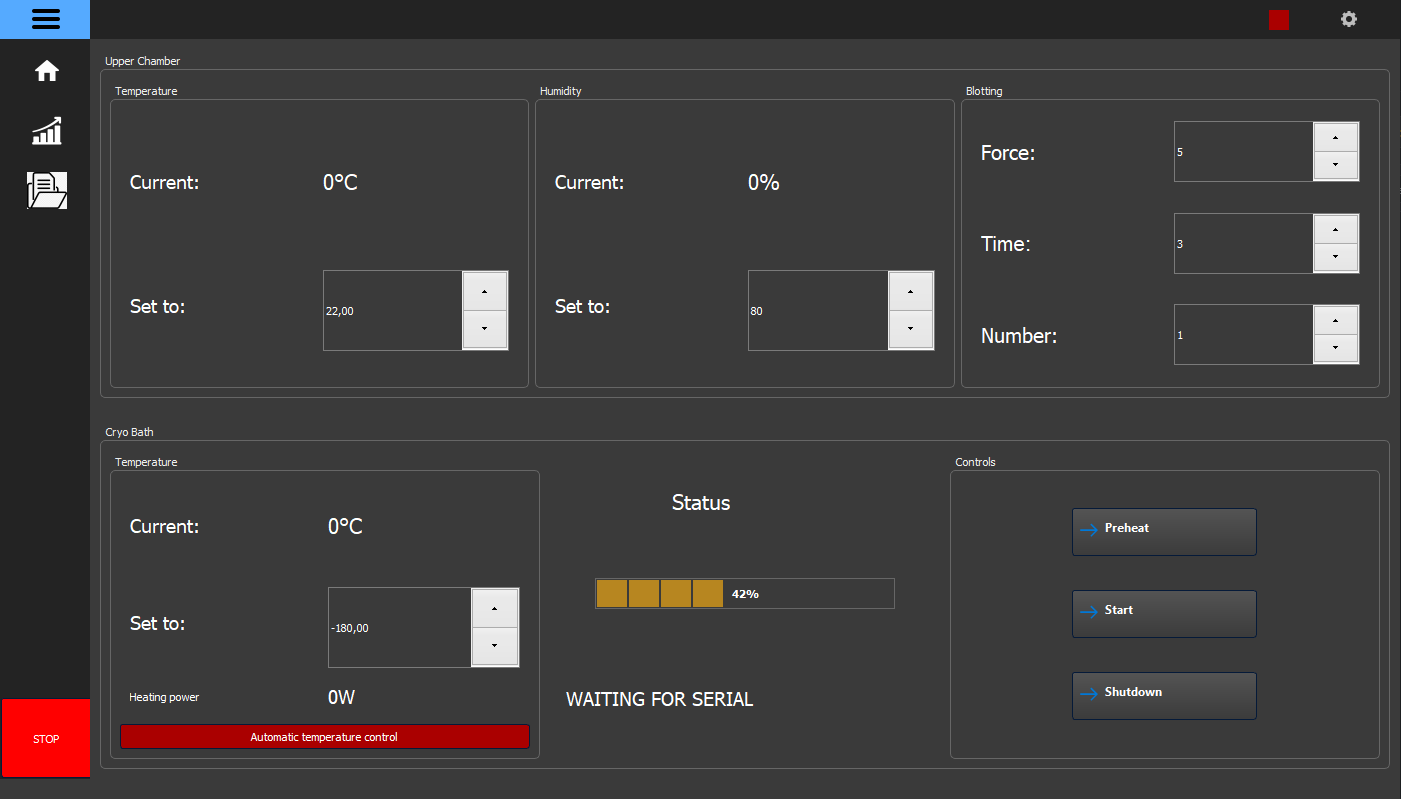
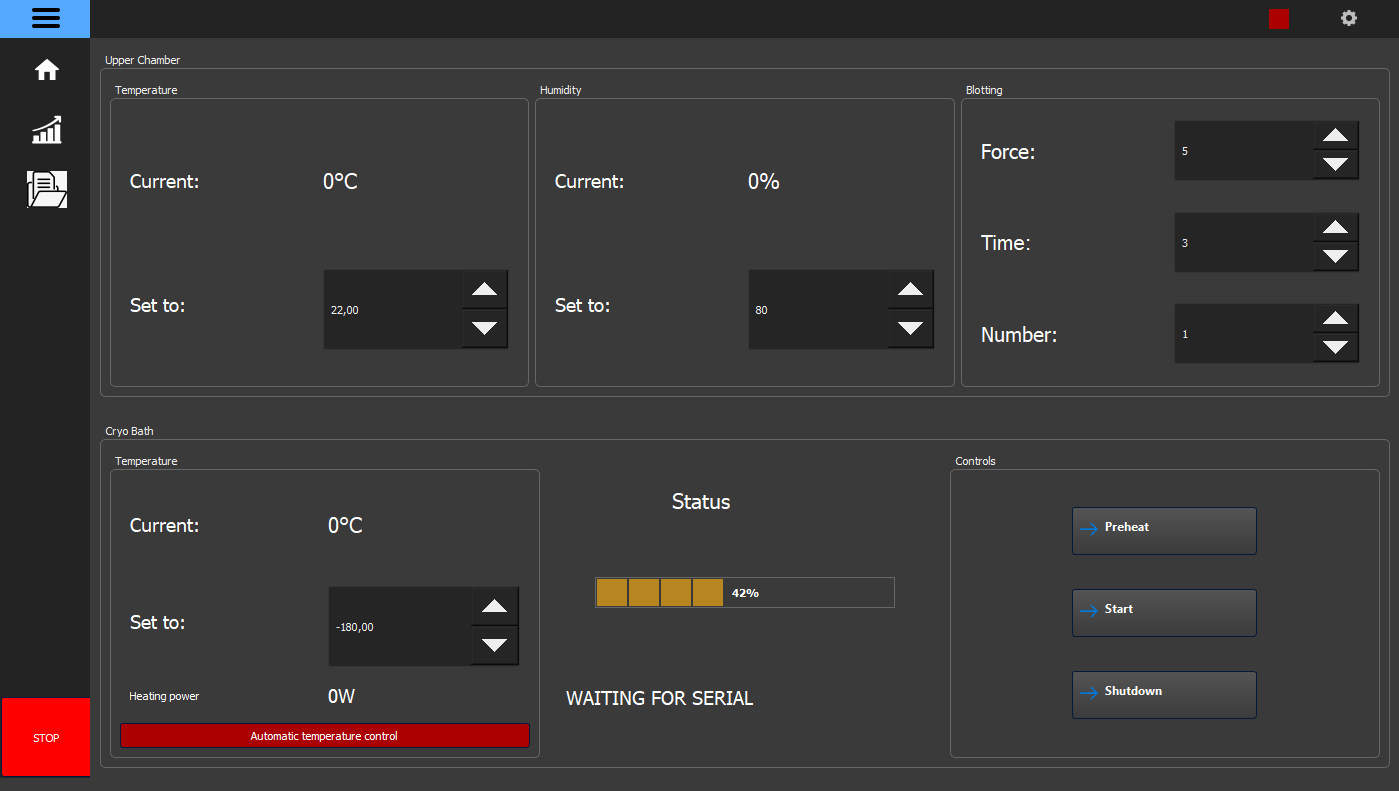
Some style changes.

diff --git a/ui_PEM_new_gui.py b/ui_PEM_new_gui.py
@@ -1,7 +1,7 @@
 # -*- coding: utf-8 -*-
 
 ################################################################################
-## Form generated from reading UI file 'PEM_new_guiwgXcmF.ui'
+## Form generated from reading UI file 'PEM_new_guiLATmzf.ui'
 ##
 ## Created by: Qt User Interface Compiler version 5.15.2
 ##
@@ -16,8 +16,8 @@ from PySide2.QtWidgets import *
 class Ui_MainWindow(object):
     def setupUi(self, MainWindow):
         if not MainWindow.objectName():
-            MainWindow.setObjectName(u"PEMpire-State-Building")
-        MainWindow.resize(1400, 865)
+            MainWindow.setObjectName(u"MainWindow")
+        MainWindow.resize(1400, 836)
         MainWindow.setMinimumSize(QSize(1400, 800))
         font = QFont()
         font.setPointSize(11)
@@ -1321,7 +1321,12 @@ class Ui_MainWindow(object):
         self.temp_control_2 = QDoubleSpinBox(self.frame_22)
         self.temp_control_2.setObjectName(u"temp_control_2")
         self.temp_control_2.setMinimumSize(QSize(141, 81))
-        self.temp_control_2.setStyleSheet(u"")
+        self.temp_control_2.setStyleSheet(u"background-color: #252525;\n"
+"color : #eee;\n"
+"border: 1px solid #343434;\n"
+"padding: 3px;\n"
+"padding-left: 5px;\n"
+"border-radius : 2px;")
         self.temp_control_2.setValue(22.000000000000000)
 
         self.horizontalLayout_26.addWidget(self.temp_control_2)
@@ -1378,6 +1383,12 @@ class Ui_MainWindow(object):
         self.humid_control_2 = QDoubleSpinBox(self.frame_23)
         self.humid_control_2.setObjectName(u"humid_control_2")
         self.humid_control_2.setMinimumSize(QSize(141, 81))
+        self.humid_control_2.setStyleSheet(u"background-color: #252525;\n"
+"color : #eee;\n"
+"border: 1px solid #343434;\n"
+"padding: 3px;\n"
+"padding-left: 5px;\n"
+"border-radius : 2px;")
         self.humid_control_2.setDecimals(0)
         self.humid_control_2.setValue(80.000000000000000)
 
@@ -1413,6 +1424,12 @@ class Ui_MainWindow(object):
         self.blotting_force_control_2 = QDoubleSpinBox(self.frame_6)
         self.blotting_force_control_2.setObjectName(u"blotting_force_control_2")
         self.blotting_force_control_2.setMinimumSize(QSize(121, 61))
+        self.blotting_force_control_2.setStyleSheet(u"background-color: #252525;\n"
+"color : #eee;\n"
+"border: 1px solid #343434;\n"
+"padding: 3px;\n"
+"padding-left: 5px;\n"
+"border-radius : 2px;")
         self.blotting_force_control_2.setDecimals(0)
         self.blotting_force_control_2.setMaximum(10.000000000000000)
         self.blotting_force_control_2.setValue(5.000000000000000)
@@ -1441,6 +1458,12 @@ class Ui_MainWindow(object):
         self.blotting_time_control_2 = QDoubleSpinBox(self.frame_7)
         self.blotting_time_control_2.setObjectName(u"blotting_time_control_2")
         self.blotting_time_control_2.setMinimumSize(QSize(121, 61))
+        self.blotting_time_control_2.setStyleSheet(u"background-color: #252525;\n"
+"color : #eee;\n"
+"border: 1px solid #343434;\n"
+"padding: 3px;\n"
+"padding-left: 5px;\n"
+"border-radius : 2px;")
         self.blotting_time_control_2.setDecimals(0)
         self.blotting_time_control_2.setMaximum(10.000000000000000)
         self.blotting_time_control_2.setValue(3.000000000000000)
@@ -1466,6 +1489,12 @@ class Ui_MainWindow(object):
         self.blotting_number_control_2 = QDoubleSpinBox(self.frame_8)
         self.blotting_number_control_2.setObjectName(u"blotting_number_control_2")
         self.blotting_number_control_2.setMinimumSize(QSize(121, 61))
+        self.blotting_number_control_2.setStyleSheet(u"background-color: #252525;\n"
+"color : #eee;\n"
+"border: 1px solid #343434;\n"
+"padding: 3px;\n"
+"padding-left: 5px;\n"
+"border-radius : 2px;")
         self.blotting_number_control_2.setDecimals(0)
         self.blotting_number_control_2.setMaximum(10.000000000000000)
         self.blotting_number_control_2.setValue(1.000000000000000)
@@ -1542,6 +1571,12 @@ class Ui_MainWindow(object):
         self.temp_control_botttom_4 = QDoubleSpinBox(self.frame_5)
         self.temp_control_botttom_4.setObjectName(u"temp_control_botttom_4")
         self.temp_control_botttom_4.setMinimumSize(QSize(141, 81))
+        self.temp_control_botttom_4.setStyleSheet(u"background-color: #252525;\n"
+"color : #eee;\n"
+"border: 1px solid #343434;\n"
+"padding: 3px;\n"
+"padding-left: 5px;\n"
+"border-radius : 2px;")
         self.temp_control_botttom_4.setMinimum(-200.000000000000000)
         self.temp_control_botttom_4.setValue(-180.000000000000000)
 
@@ -1588,6 +1623,25 @@ class Ui_MainWindow(object):
         self.frame.setFrameShadow(QFrame.Raised)
         self.gridLayout_5 = QGridLayout(self.frame)
         self.gridLayout_5.setObjectName(u"gridLayout_5")
+        self.frame_26 = QFrame(self.frame)
+        self.frame_26.setObjectName(u"frame_26")
+        self.frame_26.setMinimumSize(QSize(0, 80))
+        self.frame_26.setMaximumSize(QSize(16777215, 100))
+        self.frame_26.setFrameShape(QFrame.StyledPanel)
+        self.frame_26.setFrameShadow(QFrame.Raised)
+        self.horizontalLayout_28 = QHBoxLayout(self.frame_26)
+        self.horizontalLayout_28.setObjectName(u"horizontalLayout_28")
+        self.progressBar = QProgressBar(self.frame_26)
+        self.progressBar.setObjectName(u"progressBar")
+        self.progressBar.setMinimumSize(QSize(300, 31))
+        self.progressBar.setMaximumSize(QSize(300, 31))
+        self.progressBar.setValue(42)
+
+        self.horizontalLayout_28.addWidget(self.progressBar)
+
+
+        self.gridLayout_5.addWidget(self.frame_26, 2, 0, 1, 1)
+
         self.frame_27 = QFrame(self.frame)
         self.frame_27.setObjectName(u"frame_27")
         self.frame_27.setMaximumSize(QSize(16777215, 80))
@@ -1624,25 +1678,6 @@ class Ui_MainWindow(object):
 
 
         self.gridLayout_5.addWidget(self.frame_28, 1, 0, 1, 1)
-
-        self.frame_26 = QFrame(self.frame)
-        self.frame_26.setObjectName(u"frame_26")
-        self.frame_26.setMinimumSize(QSize(0, 80))
-        self.frame_26.setMaximumSize(QSize(16777215, 100))
-        self.frame_26.setFrameShape(QFrame.StyledPanel)
-        self.frame_26.setFrameShadow(QFrame.Raised)
-        self.horizontalLayout_28 = QHBoxLayout(self.frame_26)
-        self.horizontalLayout_28.setObjectName(u"horizontalLayout_28")
-        self.progressBar = QProgressBar(self.frame_26)
-        self.progressBar.setObjectName(u"progressBar")
-        self.progressBar.setMinimumSize(QSize(300, 31))
-        self.progressBar.setMaximumSize(QSize(300, 31))
-        self.progressBar.setValue(42)
-
-        self.horizontalLayout_28.addWidget(self.progressBar)
-
-
-        self.gridLayout_5.addWidget(self.frame_26, 2, 0, 1, 1)
 
 
         self.horizontalLayout_11.addWidget(self.frame)
@@ -2037,6 +2072,12 @@ class Ui_MainWindow(object):
         self.calib_right = QDoubleSpinBox(self.frame_9)
         self.calib_right.setObjectName(u"calib_right")
         self.calib_right.setMinimumSize(QSize(121, 80))
+        self.calib_right.setStyleSheet(u"background-color: #252525;\n"
+"color : #eee;\n"
+"border: 1px solid #343434;\n"
+"padding: 3px;\n"
+"padding-left: 5px;\n"
+"border-radius : 2px;")
         self.calib_right.setDecimals(0)
         self.calib_right.setMinimum(-100.000000000000000)
         self.calib_right.setMaximum(200.000000000000000)
@@ -2064,6 +2105,12 @@ class Ui_MainWindow(object):
         self.calib_left = QDoubleSpinBox(self.frame_10)
         self.calib_left.setObjectName(u"calib_left")
         self.calib_left.setMinimumSize(QSize(121, 80))
+        self.calib_left.setStyleSheet(u"background-color: #252525;\n"
+"color : #eee;\n"
+"border: 1px solid #343434;\n"
+"padding: 3px;\n"
+"padding-left: 5px;\n"
+"border-radius : 2px;")
         self.calib_left.setDecimals(0)
         self.calib_left.setMinimum(-100.000000000000000)
         self.calib_left.setMaximum(200.000000000000000)
@@ -2148,14 +2195,14 @@ class Ui_MainWindow(object):
         self.retranslateUi(MainWindow)
 
         self.button_page_home.setDefault(False)
-        self.pages_widget.setCurrentIndex(0)
+        self.pages_widget.setCurrentIndex(2)
 
 
         QMetaObject.connectSlotsByName(MainWindow)
     # setupUi
 
     def retranslateUi(self, MainWindow):
-        MainWindow.setWindowTitle(QCoreApplication.translate("PEMpire-State-Building", u"PEMpire-State-Building", None))
+        MainWindow.setWindowTitle(QCoreApplication.translate("MainWindow", u"MainWindow", None))
         self.toggle_button.setText("")
         self.go_settings_button.setText("")
 #if QT_CONFIG(whatsthis)
@@ -2164,59 +2211,59 @@ class Ui_MainWindow(object):
         self.button_page_home.setText("")
         self.button_page_plots.setText("")
         self.button_page_Data.setText("")
-        self.emergency_button.setText(QCoreApplication.translate("PEMpire-State-Building", u"STOP", None))
+        self.emergency_button.setText(QCoreApplication.translate("MainWindow", u"STOP", None))
 #if QT_CONFIG(whatsthis)
         self.pages_widget.setWhatsThis("")
 #endif // QT_CONFIG(whatsthis)
-        self.upper_chamer_box.setTitle(QCoreApplication.translate("PEMpire-State-Building", u"Upper Chamber", None))
-        self.temp_box_2.setTitle(QCoreApplication.translate("PEMpire-State-Building", u"Temperature", None))
-        self.label.setText(QCoreApplication.translate("PEMpire-State-Building", u"Current:", None))
-        self.temp_lable_2.setText(QCoreApplication.translate("PEMpire-State-Building", u"TextLabel", None))
-        self.label_2.setText(QCoreApplication.translate("PEMpire-State-Building", u"Set to:", None))
-        self.humid_box_2.setTitle(QCoreApplication.translate("PEMpire-State-Building", u"Humidity", None))
-        self.label_3.setText(QCoreApplication.translate("PEMpire-State-Building", u"Current:", None))
-        self.humid_lable_2.setText(QCoreApplication.translate("PEMpire-State-Building", u"TextLabel", None))
-        self.label_7.setText(QCoreApplication.translate("PEMpire-State-Building", u"Set to:", None))
-        self.blotting_box_2.setTitle(QCoreApplication.translate("PEMpire-State-Building", u"Blotting", None))
-        self.label_4.setText(QCoreApplication.translate("PEMpire-State-Building", u"Force:", None))
-        self.label_5.setText(QCoreApplication.translate("PEMpire-State-Building", u"Time:", None))
-        self.label_6.setText(QCoreApplication.translate("PEMpire-State-Building", u"Number:", None))
+        self.upper_chamer_box.setTitle(QCoreApplication.translate("MainWindow", u"Upper Chamber", None))
+        self.temp_box_2.setTitle(QCoreApplication.translate("MainWindow", u"Temperature", None))
+        self.label.setText(QCoreApplication.translate("MainWindow", u"Current:", None))
+        self.temp_lable_2.setText(QCoreApplication.translate("MainWindow", u"TextLabel", None))
+        self.label_2.setText(QCoreApplication.translate("MainWindow", u"Set to:", None))
+        self.humid_box_2.setTitle(QCoreApplication.translate("MainWindow", u"Humidity", None))
+        self.label_3.setText(QCoreApplication.translate("MainWindow", u"Current:", None))
+        self.humid_lable_2.setText(QCoreApplication.translate("MainWindow", u"TextLabel", None))
+        self.label_7.setText(QCoreApplication.translate("MainWindow", u"Set to:", None))
+        self.blotting_box_2.setTitle(QCoreApplication.translate("MainWindow", u"Blotting", None))
+        self.label_4.setText(QCoreApplication.translate("MainWindow", u"Force:", None))
+        self.label_5.setText(QCoreApplication.translate("MainWindow", u"Time:", None))
+        self.label_6.setText(QCoreApplication.translate("MainWindow", u"Number:", None))
 #if QT_CONFIG(whatsthis)
         self.cryo_box.setWhatsThis("")
 #endif // QT_CONFIG(whatsthis)
-        self.cryo_box.setTitle(QCoreApplication.translate("PEMpire-State-Building", u"Cryo Bath", None))
-        self.temp_box_bottom_4.setTitle(QCoreApplication.translate("PEMpire-State-Building", u"Temperature", None))
-        self.label_8.setText(QCoreApplication.translate("PEMpire-State-Building", u"Current:", None))
-        self.temp_lable_bottom_4.setText(QCoreApplication.translate("PEMpire-State-Building", u"TextLabel", None))
-        self.label_12.setText(QCoreApplication.translate("PEMpire-State-Building", u"Set to:", None))
-        self.lable2.setText(QCoreApplication.translate("PEMpire-State-Building", u"Heating power", None))
-        self.power_label.setText(QCoreApplication.translate("PEMpire-State-Building", u"-", None))
-        self.pid_control.setText(QCoreApplication.translate("PEMpire-State-Building", u"Automatic temperature control", None))
-        self.current_step_label.setText(QCoreApplication.translate("PEMpire-State-Building", u"Current Step", None))
-        self.label_22.setText(QCoreApplication.translate("PEMpire-State-Building", u" Status", None))
-        self.control_box_4.setTitle(QCoreApplication.translate("PEMpire-State-Building", u"Controls", None))
-        self.shutdown_button_4.setText(QCoreApplication.translate("PEMpire-State-Building", u"Shutdown", None))
-        self.prep_button.setText(QCoreApplication.translate("PEMpire-State-Building", u"Preheat", None))
-        self.start_button_4.setText(QCoreApplication.translate("PEMpire-State-Building", u"Start", None))
-        self.plot_box.setTitle(QCoreApplication.translate("PEMpire-State-Building", u"Plots", None))
-        self.plot1_label_box.setTitle(QCoreApplication.translate("PEMpire-State-Building", u"Temp Chamber \u00b0C", None))
-        self.temp_chamber_plot.setText(QCoreApplication.translate("PEMpire-State-Building", u"       -           ", None))
-        self.temp_chamber_plot_current.setText(QCoreApplication.translate("PEMpire-State-Building", u"       -           ", None))
-        self.label_14.setText(QCoreApplication.translate("PEMpire-State-Building", u"Current:", None))
-        self.label_17.setText(QCoreApplication.translate("PEMpire-State-Building", u"Cursor:", None))
-        self.plot2_label_box.setTitle(QCoreApplication.translate("PEMpire-State-Building", u"Humidity %", None))
-        self.label_15.setText(QCoreApplication.translate("PEMpire-State-Building", u"Current:", None))
-        self.humid_plot_current.setText(QCoreApplication.translate("PEMpire-State-Building", u"       -           ", None))
-        self.humid_plot.setText(QCoreApplication.translate("PEMpire-State-Building", u"       -           ", None))
-        self.label_18.setText(QCoreApplication.translate("PEMpire-State-Building", u"Cursor:", None))
-        self.plot3_label_box.setTitle(QCoreApplication.translate("PEMpire-State-Building", u"Temp Cryo Bath \u00b0C", None))
-        self.temp_cryo_plot.setText(QCoreApplication.translate("PEMpire-State-Building", u"       -           ", None))
-        self.label_16.setText(QCoreApplication.translate("PEMpire-State-Building", u"Curent:", None))
-        self.temp_cryo_plot_current.setText(QCoreApplication.translate("PEMpire-State-Building", u"       -           ", None))
-        self.label_19.setText(QCoreApplication.translate("PEMpire-State-Building", u"Cursor:", None))
-        self.clear_plots_button.setText(QCoreApplication.translate("PEMpire-State-Building", u"Clear", None))
-        self.settings_box.setTitle(QCoreApplication.translate("PEMpire-State-Building", u"Settings", None))
-        self.stepper_box.setTitle(QCoreApplication.translate("PEMpire-State-Building", u"Steppers", None))
+        self.cryo_box.setTitle(QCoreApplication.translate("MainWindow", u"Cryo Bath", None))
+        self.temp_box_bottom_4.setTitle(QCoreApplication.translate("MainWindow", u"Temperature", None))
+        self.label_8.setText(QCoreApplication.translate("MainWindow", u"Current:", None))
+        self.temp_lable_bottom_4.setText(QCoreApplication.translate("MainWindow", u"TextLabel", None))
+        self.label_12.setText(QCoreApplication.translate("MainWindow", u"Set to:", None))
+        self.lable2.setText(QCoreApplication.translate("MainWindow", u"Heating power", None))
+        self.power_label.setText(QCoreApplication.translate("MainWindow", u"-", None))
+        self.pid_control.setText(QCoreApplication.translate("MainWindow", u"Automatic temperature control", None))
+        self.current_step_label.setText(QCoreApplication.translate("MainWindow", u"Current Step", None))
+        self.label_22.setText(QCoreApplication.translate("MainWindow", u" Status", None))
+        self.control_box_4.setTitle(QCoreApplication.translate("MainWindow", u"Controls", None))
+        self.shutdown_button_4.setText(QCoreApplication.translate("MainWindow", u"Shutdown", None))
+        self.prep_button.setText(QCoreApplication.translate("MainWindow", u"Preheat", None))
+        self.start_button_4.setText(QCoreApplication.translate("MainWindow", u"Start", None))
+        self.plot_box.setTitle(QCoreApplication.translate("MainWindow", u"Plots", None))
+        self.plot1_label_box.setTitle(QCoreApplication.translate("MainWindow", u"Temp Chamber \u00b0C", None))
+        self.temp_chamber_plot.setText(QCoreApplication.translate("MainWindow", u"       -           ", None))
+        self.temp_chamber_plot_current.setText(QCoreApplication.translate("MainWindow", u"       -           ", None))
+        self.label_14.setText(QCoreApplication.translate("MainWindow", u"Current:", None))
+        self.label_17.setText(QCoreApplication.translate("MainWindow", u"Cursor:", None))
+        self.plot2_label_box.setTitle(QCoreApplication.translate("MainWindow", u"Humidity %", None))
+        self.label_15.setText(QCoreApplication.translate("MainWindow", u"Current:", None))
+        self.humid_plot_current.setText(QCoreApplication.translate("MainWindow", u"       -           ", None))
+        self.humid_plot.setText(QCoreApplication.translate("MainWindow", u"       -           ", None))
+        self.label_18.setText(QCoreApplication.translate("MainWindow", u"Cursor:", None))
+        self.plot3_label_box.setTitle(QCoreApplication.translate("MainWindow", u"Temp Cryo Bath \u00b0C", None))
+        self.temp_cryo_plot.setText(QCoreApplication.translate("MainWindow", u"       -           ", None))
+        self.label_16.setText(QCoreApplication.translate("MainWindow", u"Curent:", None))
+        self.temp_cryo_plot_current.setText(QCoreApplication.translate("MainWindow", u"       -           ", None))
+        self.label_19.setText(QCoreApplication.translate("MainWindow", u"Cursor:", None))
+        self.clear_plots_button.setText(QCoreApplication.translate("MainWindow", u"Clear", None))
+        self.settings_box.setTitle(QCoreApplication.translate("MainWindow", u"Settings", None))
+        self.stepper_box.setTitle(QCoreApplication.translate("MainWindow", u"Steppers", None))
 #if QT_CONFIG(statustip)
         self.plunging_lable.setStatusTip("")
 #endif // QT_CONFIG(statustip)
@@ -2229,23 +2276,23 @@ class Ui_MainWindow(object):
 #if QT_CONFIG(accessibility)
         self.plunging_lable.setAccessibleDescription("")
 #endif // QT_CONFIG(accessibility)
-        self.plunging_lable.setText(QCoreApplication.translate("PEMpire-State-Building", u"Plunging Arm", None))
-        self.cryo_lable.setText(QCoreApplication.translate("PEMpire-State-Building", u"Cryo Platfom", None))
-        self.homing_sucess_label.setText(QCoreApplication.translate("PEMpire-State-Building", u"-", None))
-        self.home_button.setText(QCoreApplication.translate("PEMpire-State-Building", u"Home Steppers", None))
-        self.data_box.setTitle(QCoreApplication.translate("PEMpire-State-Building", u"Configuration", None))
-        self.buzzer_button.setText(QCoreApplication.translate("PEMpire-State-Building", u"Buzzer on", None))
-        self.checkBox_3.setText(QCoreApplication.translate("PEMpire-State-Building", u"RGB on", None))
-        self.label_13.setText(QCoreApplication.translate("PEMpire-State-Building", u"Water Temp:", None))
-        self.water_temp_label.setText(QCoreApplication.translate("PEMpire-State-Building", u"-", None))
-        self.blotting_box_3.setTitle(QCoreApplication.translate("PEMpire-State-Building", u"Blotting Calibration", None))
-        self.label_10.setText(QCoreApplication.translate("PEMpire-State-Building", u"Right Arm", None))
+        self.plunging_lable.setText(QCoreApplication.translate("MainWindow", u"Plunging Arm", None))
+        self.cryo_lable.setText(QCoreApplication.translate("MainWindow", u"Cryo Platfom", None))
+        self.homing_sucess_label.setText(QCoreApplication.translate("MainWindow", u"-", None))
+        self.home_button.setText(QCoreApplication.translate("MainWindow", u"Home Steppers", None))
+        self.data_box.setTitle(QCoreApplication.translate("MainWindow", u"Configuration", None))
+        self.buzzer_button.setText(QCoreApplication.translate("MainWindow", u"Buzzer on", None))
+        self.checkBox_3.setText(QCoreApplication.translate("MainWindow", u"RGB on", None))
+        self.label_13.setText(QCoreApplication.translate("MainWindow", u"Water Temp:", None))
+        self.water_temp_label.setText(QCoreApplication.translate("MainWindow", u"-", None))
+        self.blotting_box_3.setTitle(QCoreApplication.translate("MainWindow", u"Blotting Calibration", None))
+        self.label_10.setText(QCoreApplication.translate("MainWindow", u"Right Arm", None))
         self.calib_right.setSuffix("")
-        self.label_11.setText(QCoreApplication.translate("PEMpire-State-Building", u"Left Arm", None))
-        self.calib_sucess_label.setText(QCoreApplication.translate("PEMpire-State-Building", u"-", None))
-        self.calib_save_button.setText(QCoreApplication.translate("PEMpire-State-Building", u"Calibrate", None))
-        self.reset_calib_button.setText(QCoreApplication.translate("PEMpire-State-Building", u"Reset Calibration", None))
-        self.label_9.setText(QCoreApplication.translate("PEMpire-State-Building", u"Page Data", None))
-        self.data_export_button.setText(QCoreApplication.translate("PEMpire-State-Building", u"Export Data", None))
+        self.label_11.setText(QCoreApplication.translate("MainWindow", u"Left Arm", None))
+        self.calib_sucess_label.setText(QCoreApplication.translate("MainWindow", u"-", None))
+        self.calib_save_button.setText(QCoreApplication.translate("MainWindow", u"Calibrate", None))
+        self.reset_calib_button.setText(QCoreApplication.translate("MainWindow", u"Reset Calibration", None))
+        self.label_9.setText(QCoreApplication.translate("MainWindow", u"Page Data", None))
+        self.data_export_button.setText(QCoreApplication.translate("MainWindow", u"Export Data", None))
     # retranslateUi
 
